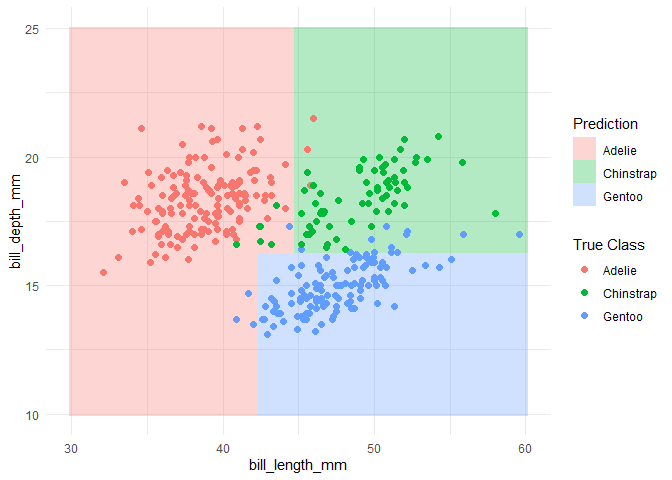
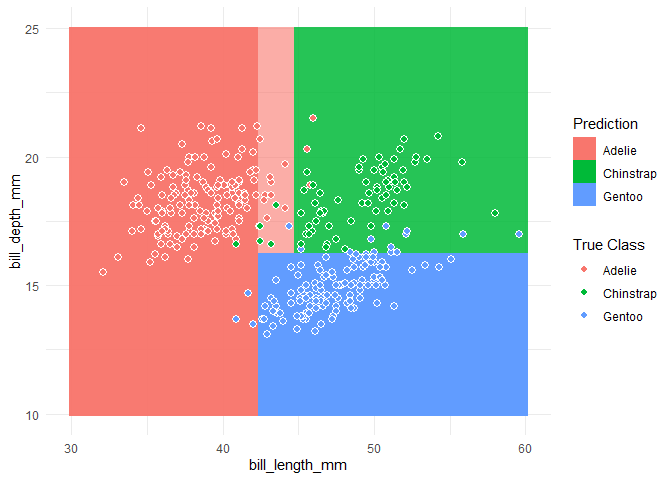
feat: implement high-dimensional forward projection and depth fading

diff --git a/README.md b/README.md
@@ -19,7 +19,7 @@ visualizations of their prediction surfaces.
 You can install the development version of classbound from GitHub with:
 
 ``` r
-# install.packages("devtools")
+install.packages("devtools")
 devtools::install_github("natydasilva/classbound")
 ```
 
@@ -50,11 +50,11 @@ feature_range <- list(
   bill_length_mm = c(30.0, 60.0),
   bill_depth_mm = c(10.0, 25.0)
 )
-grid_data <- boundary_compute(model, range = feature_range, resolution = 100)
+model <- boundary_compute(model, range = feature_range, resolution = 100)
 
 # 4. Plot the decision boundary
 plot_boundary(
-  boundary = grid_data,
+  model = model,
   obs_data = penguins,
   x_col = "bill_length_mm",
   y_col = "bill_depth_mm",
@@ -63,6 +63,33 @@ plot_boundary(
 ```
 
 <img src="man/figures/README-visualisation-1.png" alt="" width="70%" style="display: block; margin: auto;" />
+
+### Native Confidence Mapping (Gradients)
+
+If the specified classifier returns prediction probabilities (such as
+Random Forests or Logistic Regression), `classbound` automatically
+extracts these probabilities and maps them to the visual transparency
+(`alpha`) of the decision regions. Deep, saturated colors indicate high
+model confidence, while pale, faded regions indicate model uncertainty
+near the boundary edges. If a classifier does not return probabilities
+(e.g., standard SVMs), `classbound` gracefully falls back to drawing
+solid colors separated by sharp boundaries.
+
+### High-Dimensional Depth Fading (Projections)
+
+When visualizing models with \>2 dimensions via projection (using
+`boundary_compute(..., projection = proj)`), `plot_boundary()` applies
+mathematically rigorous forward projection to any overlaid training
+observations.
+
+To prevent visual crowding and provide a sense of spatial depth, it
+automatically calculates the orthogonal distance from each original
+high-dimensional point to the 2D projection plane. Points lying exactly
+on the plane are plotted entirely opaque (`alpha = 1.0`), while points
+further away in high-dimensional space gradually fade into the
+background (`alpha = 0.2`). This provides instant visual context on
+whether a point is genuinely near the boundary or simply an artifact of
+the viewing angle.
 
 ### The All-In-One Wrapper
 
@@ -88,8 +115,8 @@ and provides a `predfun` argument for models that return complex objects
 ``` r
 # Standard models (e.g., SVM) work automatically
 model_svm <- classbound(
-  data = penguins, 
-  formula = species ~ bill_length_mm + bill_depth_mm, 
+  data = penguins,
+  formula = species ~ bill_length_mm + bill_depth_mm,
   classifier = e1071::svm
 )
 
